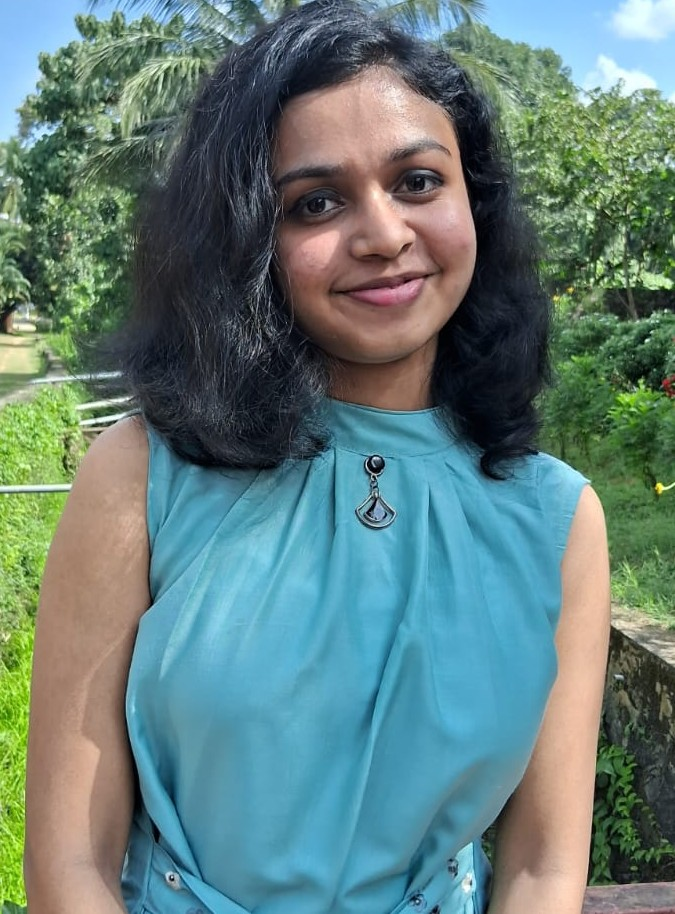
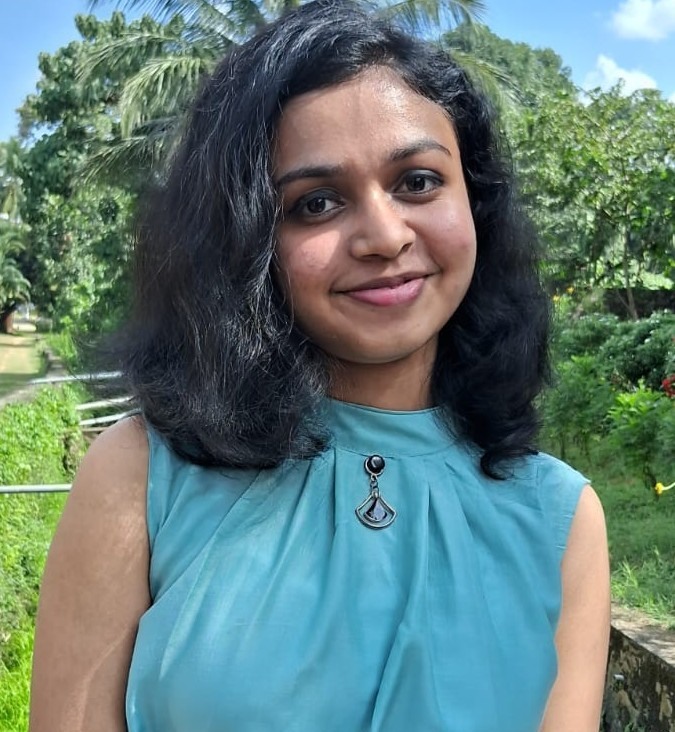
Execom Update - Complete

diff --git a/EXECOM/2025/index.html b/EXECOM/2025/index.html
@@ -159,24 +159,10 @@
           <div class="row">
             <div class="col-md-6 col-lg-4 mb-5">
               <div class="text-center cell p-3">
-                <img src="pic24/VP.jpg" alt="" class="rounded-circle" />
+                <img src="pic25/Sanju-Sebastian.jpg" alt="" class="rounded-circle" />
                 <br />
                 <h5 class="mt-2">
-                  Dr. Madhu Kumar.S<br />
-                  <p class="text-muted">Dean</p>
-                </h5>
-                <a href="https://www.linkedin.com/in/dr-madhukumar-s-7b6b07a2/" target="_blank">
-                  <i class="fab fa-linkedin-in"></i></a>
-                <a href="mailto:vp@sjcetpalai.ac.in" target="_blank"><i class="fas fa-envelope"></i></a>
-              </div>
-            </div>
-
-            <div class="col-md-6 col-lg-4 mb-5">
-              <div class="text-center cell p-3">
-                <img src="pic24/Sreesh.jpg" alt="" class="rounded-circle" />
-                <br />
-                <h5 class="mt-2">
-                  Mr. Sreesh PR <br />
+                  Prof. Sanju Sebastian <br />
                   <p class="text-muted">Branch Counceller</p>
                 </h5>
                 <a href="https://www.linkedin.com/in/sreesh-p-r-618461190/" target="_blank">
@@ -331,7 +317,7 @@
               </div>
             </div>
 
-            <div class="col-md-6 col-lg-4 mb-5">
+            <!-- <div class="col-md-6 col-lg-4 mb-5">
               <div class="text-center cell p-3">
                 <img src="pic25/" alt="" class="rounded-circle" />
                 <br />
@@ -345,10 +331,10 @@
                   <i class="fab fa-linkedin-in"></i></a>
                 <a href="mailto:naveenmanu369@gmail.com " target="_blank"><i class="fas fa-envelope"></i></a>
               </div>
-            </div>
+            </div> -->
 
 
-            <div class="col-md-6 col-lg-4 mb-5">
+            <!-- <div class="col-md-6 col-lg-4 mb-5">
               <div class="text-center cell p-3">
                 <img src="pic25/" alt="" class="rounded-circle" />
                 <br />
@@ -362,7 +348,7 @@
                   <i class="fab fa-linkedin-in"></i></a>
                 <a href="mailto:ramanika@ieee.org " target="_blank"><i class="fas fa-envelope"></i></a>
               </div>
-            </div>
+            </div> -->
 
 
           </div>
@@ -493,7 +479,7 @@
 
             <div class="col-md-6 col-lg-4 mb-5">
               <div class="text-center cell p-3">
-                <img src="pic24/Sandra_Theresa.png" alt="" class="rounded-circle" />
+                <img src="pic25/Amrutha-KA.jpeg" alt="" class="rounded-circle" />
                 <br />
                 <h5 class="mt-2">
                   Amrutha K A
@@ -568,7 +554,7 @@
 
             <div class="col-md-6 col-lg-4 mb-5">
               <div class="text-center cell p-3">
-                <img src="pic25/avanthika.webp" alt="" class="rounded-circle" />
+                <img src="pic25/avanthika.jpg" alt="" class="rounded-circle" />
                 <br />
                 <h5 class="mt-2">
                   Avanthika S
@@ -609,11 +595,11 @@
             <div class="row">
                 <div class="col-md-6 col-lg-4 mb-5">
                     <div class="text-center cell p-3">
-                      <img src="pic25/" alt="" class="rounded-circle" />
+                      <img src="pic25/Sreesh.jpg" alt="" class="rounded-circle" />
                       <br />
                       <h5 class="mt-2">
-                        Mr. Sreesh PR <br />
-                        <p class="text-muted">Branch Counceller</p>
+                        Prof. Sreesh PR <br />
+                        <p class="text-muted">Chapter Advisor</p>
                       </h5>
                       <a href="https://www.linkedin.com/in/sreesh-p-r-618461190/" target="_blank">
                         <i class="fab fa-linkedin-in"></i></a>
@@ -823,10 +809,10 @@
           <div class="row">
             <div class="col-md-6 col-lg-4 mb-5">
               <div class="text-center cell p-3">
-                <img src="pic25/" alt="" class="rounded-circle" />
+                <img src="pic25/Sanju-Sebastian.jpg" alt="" class="rounded-circle" />
                 <br />
                 <h5 class="mt-2">
-                  Prof. Sreesh P R<br />
+                  Prof. Sanju Sebastian<br />
                   <p class="text-muted">Chapter Advisor</p>
                 </h5>
 
@@ -866,7 +852,7 @@
 
             <div class="col-md-6 col-lg-12 mb-5">
               <div class="text-center cell p-3">
-                <img src="pic25/Arathi Mohan .webp" alt="" class="rounded-circle" />
+                <img src="pic25/Arathi Mohan .png" alt="" class="rounded-circle" />
                 <br />
                 <h5 class="mt-2">
                   Arathi Mohan
@@ -970,7 +956,7 @@
     </div>
   </section>
 
-  <section>
+  <!-- <section>
     <div class="card border-0">
       <div class="card-body">
         <h3 class="text-center mb-5 mt-5">MEMBERSHIP DEVELOPMENT TEAM</h3>
@@ -1039,17 +1025,17 @@
         </div>
       </div>
     </div>
-  </section>
+  </section> -->
 
   <section>
     <div class="card border-0">
       <div class="card-body">
-        <h3 class="text-center mb-5 mt-5">DOCUMENTATION TEAM</h3>
+        <h3 class="text-center mb-5 mt-5">CONTENT TEAM</h3>
         <div class="container">
           <div class="row">
             <div class="col-md-6 col-lg-4 mb-5">
               <div class="text-center cell p-3">
-                <img src="pic25/Arathi Mohan .webp" alt="" class="rounded-circle" />
+                <img src="pic25/Arathi Mohan .png" alt="" class="rounded-circle" />
                 <br />
                 <h5 class="mt-2">
                   Arathi Mohan
@@ -1064,7 +1050,7 @@
 
             <div class="col-md-6 col-lg-4 mb-5">
               <div class="text-center cell p-3">
-                <img src="pic25/" alt="" class="rounded-circle" />
+                <img src="pic25/Rijo-Shaji.jpeg" alt="" class="rounded-circle" />
                 <br />
                 <h5 class="mt-2">
                   Rijo Shaji 
@@ -1174,17 +1160,17 @@
   <section>
     <div class="card border-0">
       <div class="card-body">
-        <h3 class="text-center mb-5 mt-5">VIDEO TEAM</h3>
+        <h3 class="text-center mb-5 mt-5">MEDIA TEAM</h3>
         <div class="container">
-          <div class="row">
-            <div class="col-md-6 col-lg-6 mb-5">
+          <div class="row justify-content-center">
+            <div class="col-md-4 col-lg-4 mb-5">
               <div class="text-center cell p-3">
-                <img src="pic25/" alt="" class="rounded-circle" />
+                <img src="pic25/Anov Byju.JPG" alt="" class="rounded-circle" />
                 <br />
                 <h5 class="mt-2">
-                  
+                  Anov Byju
                   <br />
-                  <p class="text-muted">Video Editor</p>
+                  <p class="text-muted">Member</p>
                 </h5>
                 <a href="" target="_blank">
                   <i class="fab fa-linkedin-in"></i></a>
@@ -1192,7 +1178,7 @@
               </div>
             </div>
 
-            <div class="col-md-6 col-lg-6 mb-5">
+            <!-- <div class="col-md-6 col-lg-6 mb-5">
               <div class="text-center cell p-3">
                 <img src="pic25/" alt="" class="rounded-circle" />
                 <br />
@@ -1205,7 +1191,7 @@
                   <i class="fab fa-linkedin-in"></i></a>
                 <a href="jordinjohnssjcet@gmail.com " target="_blank"><i class="fas fa-envelope"></i></a>
               </div>
-            </div>
+            </div> -->
           </div>
         </div>
       </div>

diff --git a/EXECOM/2025/style.css b/EXECOM/2025/style.css
@@ -62,6 +62,8 @@ h2 {
 .rounded-circle {
     width: 15rem;
     height: 15rem;
+    object-fit: cover;
+    object-position: center;
 }
 
 .fab,
